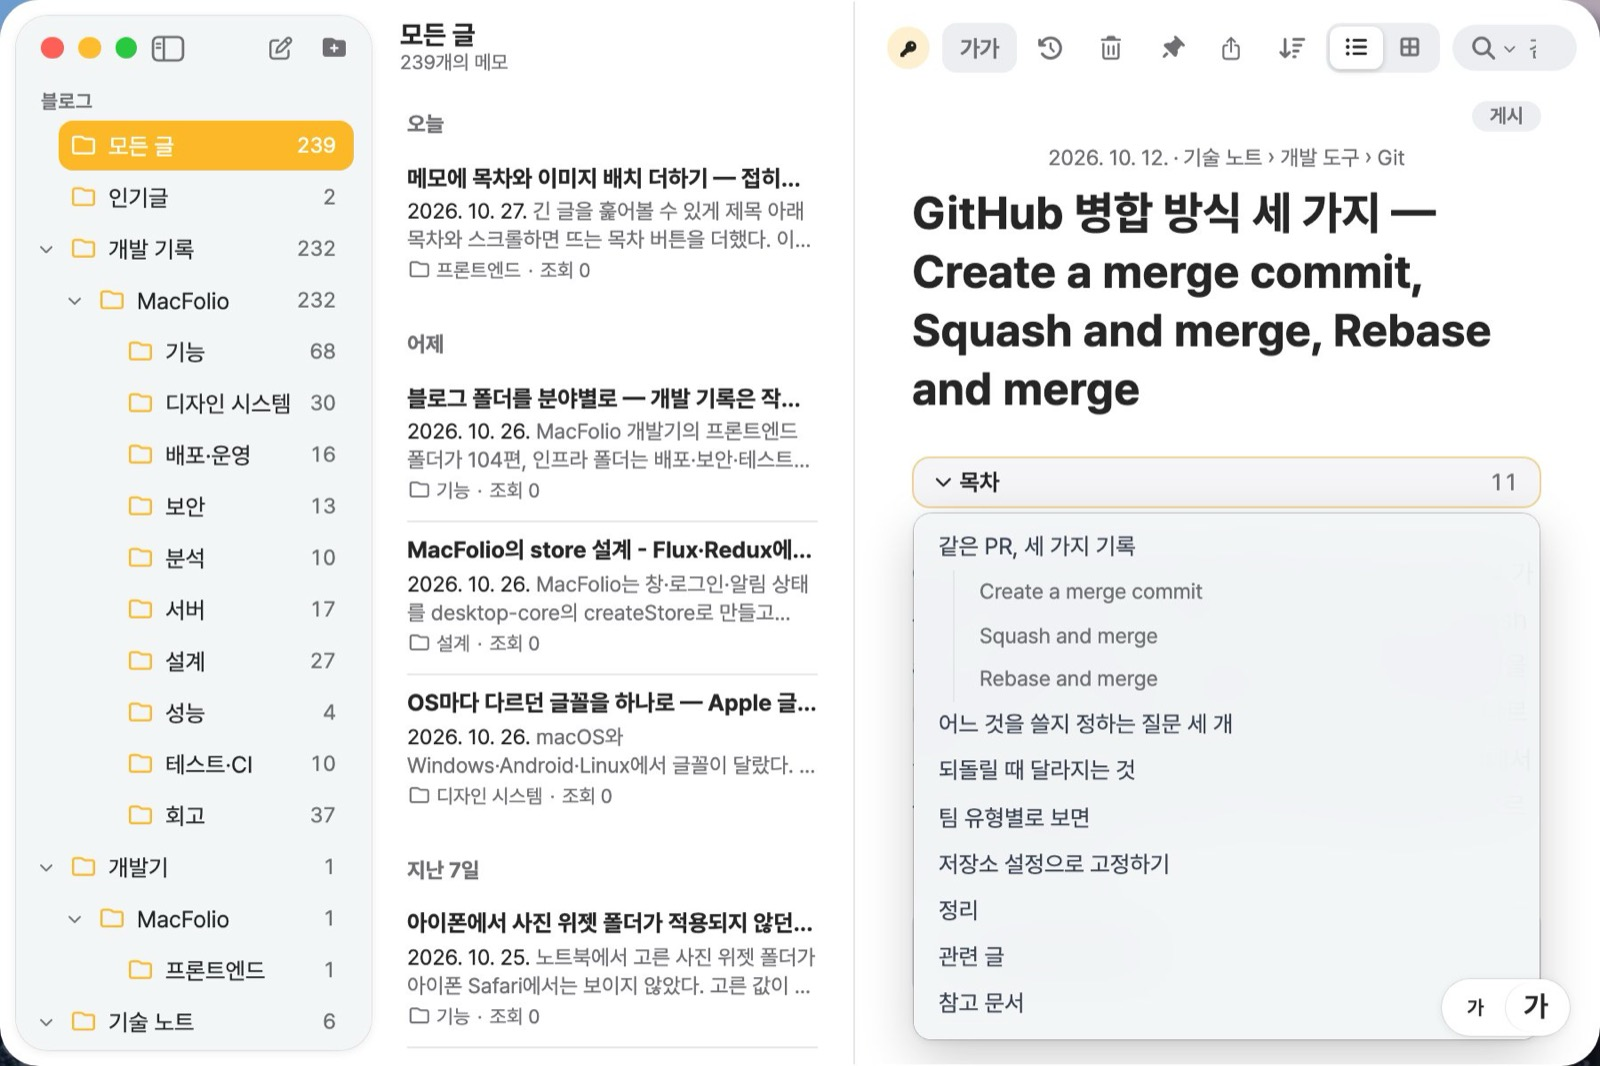
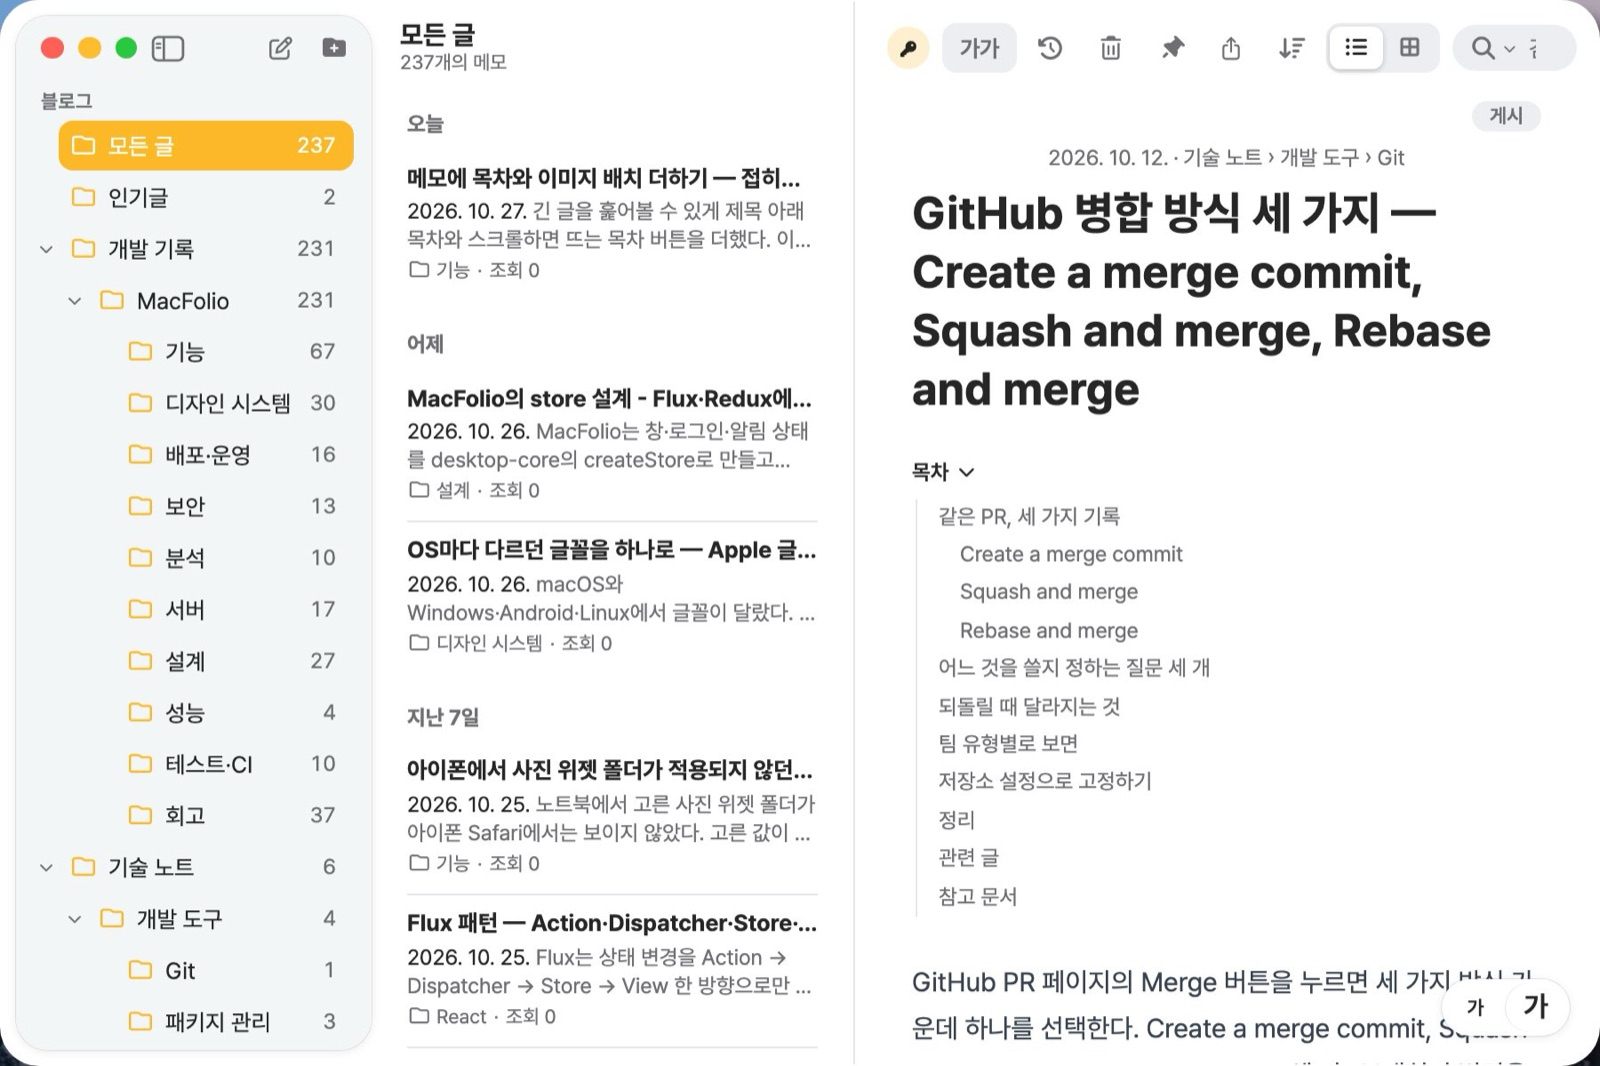
docs(memo): 목차 글을 누르기 여닫기·펼침 움직임·Apple 문서식 목록으로 고친다

diff --git a/apps/react/src/apps/memo/content/memo-toc-image-layout.md b/apps/react/src/apps/memo/content/memo-toc-image-layout.md
@@ -121,65 +121,76 @@ export function activeHeading(tops: readonly number[], offset: number): number {
 
 ## 여는 방식과 편집 화면
 
-처음 목차는 넓은 화면에서 펼친 채 시작했다. 제목이 32개인 글은 본문보다 목차가 먼저 한 화면을 차지했다. 또 관리자로 로그인해 글을 열면 편집 화면이라 목차와 글자 크기 버튼이 없었다. 두 가지를 바꿨다([#394](https://github.com/hyeoniverse/MacFolio/pull/394)).
+처음 목차는 넓은 화면에서 펼친 채 시작했다. 제목이 32개인 글은 본문보다 목차가 먼저 한 화면을 차지했다. 또 관리자로 로그인해 글을 열면 편집 화면이라 목차와 글자 크기 버튼이 없었다. 여는 방식, 모양, 편집 화면 세 가지를 바꿨다([#394](https://github.com/hyeoniverse/MacFolio/pull/394)).
 
-### 접힌 채 시작하고, 올리면 떠서 열고, 누르면 고정
+### 누르면 펼치고, 다시 누르면 접는다
 
-목차는 이제 늘 `› 목차 11`처럼 한 줄로 접혀 시작한다. 여는 방법은 둘이다.
+목차는 `목차 ›` 한 줄로 접힌 채 시작한다. 상태는 펼침과 접힘 두 가지뿐이다.
 
-| 상태      | 데스크톱                                     | 휴대폰                                     | 본문                              |
-| --------- | -------------------------------------------- | ------------------------------------------ | --------------------------------- |
-| 잠깐 열림 | 마우스를 올리면 열고, 벗어나면 닫는다        | 탭하면 열고, 바깥을 탭하거나 고르면 닫는다 | 목록이 본문 위에 떠서 밀지 않는다 |
-| 고정      | 클릭(키보드는 Enter·Space). 다시 하면 풀린다 | 길게 누르기(500ms). 탭하면 풀린다          | 판 안에 펼쳐 본문을 아래로 민다   |
+| 입력                             | 데스크톱    | 휴대폰      |
+| -------------------------------- | ----------- | ----------- |
+| 클릭·탭, 키보드 Enter·Space      | 펼침 ↔ 접힘 | 펼침 ↔ 접힘 |
+| Esc (목차 안에 초점이 있는 시각) | 접힘        | 접힘        |
+| 마우스 올림                      | 동작 없음   | 해당 없음   |
+| 떠 있는 목차 창(≡)에서 항목 고름 | 창을 닫음   | 창 없음     |
 
-![목차의 세 상태](./images/memo-toc-image-layout-toc-states.svg '도식. 접힘에서 마우스를 올리거나 탭하면 잠깐 열림, 클릭·Enter·길게 누르기면 고정. Esc는 어느 상태든 접는다')
+- **마우스 올림으로 열지 않는다:** 한 차례 마우스를 올리면 목록이 뜨는 방식을 만들었다가 뺐다. 본문을 읽으며 지나가는 마우스에도 목록이 떠서 글을 가렸고, 마우스·손가락에 따라 규칙이 달라져 휴대폰에서는 길게 누르기라는 별도 입력이 필요했다. 지금은 모든 입력에서 누르기 한 가지로 연다. 떠 있는 목차 버튼(≡)도 같다.
+- **펼침 상태는 기억한다:** 제목 아래 목차를 펼쳐 두면 `macfolio:memo:toc-open`에 남겨 다음 글과 다음 방문에도 펼친 채 연다. 접으면 키를 지운다. 휴지통 앱의 '내 브라우저 데이터'에서 지울 수 있다. 떠 있는 목차 창은 글 중간에서 잠깐 여는 메뉴라 기억하지 않는다.
+- **펼치면 본문을 민다:** 목록이 본문 위에 뜨지 않고 제목 아래에 자리를 차지한다. 열고 닫는 것은 사용자가 누른 결과라, 본문이 움직여도 읽던 자리가 예고 없이 흔들리지 않는다.
 
-- **잠깐 열린 목록은 본문을 밀지 않는다:** 마우스를 올릴 때마다 본문이 내려가면 읽던 자리가 흔들린다. 그래서 잠깐 연 목록은 `position: absolute`로 판 아래에 띄운다. 시험은 마우스를 올리기 전후의 본문 위치가 같은지 확인한다. 고정은 사용자가 고른 상태라 판 안에 펼친다.
-- **지연:** 마우스가 120ms 머물러야 열고, 벗어난 뒤 250ms가 지나야 닫는다. 목차 위를 지나가기만 한 마우스로 깜빡이지 않고, 접힌 줄에서 목록으로 내려가는 사이에 닫히지 않게 하는 값이다.
-- **마우스·손가락 구분:** `click` 이벤트에는 어떤 입력인지가 없다. 그래서 직전 `pointerdown`의 `pointerType`을 기억해 마우스면 고정을, 손가락이면 잠깐 열기를 한다. 키보드로 누른 `click`은 `detail`이 0이라 고정으로 처리한다. 길게 누르면 iOS가 띄우는 글자 고르기 메뉴는 `-webkit-touch-callout: none`과 `contextmenu` 막기로 끈다.
-- **고정은 기억한다:** 제목 아래 목차의 고정은 `macfolio:memo:toc-pinned`에 남겨 다음 글과 다음 방문에도 펼친 채 연다. 휴지통 앱의 '내 브라우저 데이터'에서 지울 수 있다. 떠 있는 목차 창의 고정은 기억하지 않는다.
+![펼친 목차](./images/memo-toc-image-layout-toc-open.jpg "데스크톱. '목차 ⌄'를 눌러 펼친 화면. 상자 없이 왼쪽 세로선에 항목이 붙고, ### 제목은 한 단계 들여 쓴다")
 
-![마우스를 올려 연 목차](./images/memo-toc-image-layout-toc-peek.jpg '데스크톱. 접힌 목차에 마우스를 올리면 목록이 반투명 판으로 본문 위에 뜬다. 판 테두리가 메모의 강조색으로 바뀐다')
+### 펼치고 접는 움직임
 
-![고정한 목차](./images/memo-toc-image-layout-toc-pinned.jpg '클릭해 고정한 목차. 판 안에 펼치고, 오른쪽에 항목 수와 핀 표시가 있다')
+펼치면 높이가 0에서 목록 높이까지 늘고, 목록이 서서히 나타나며, 화살표가 ›에서 ⌄로 돈다. 높이는 `height: auto`로 전환할 수 없어서 `display: grid`의 `grid-template-rows`를 `0fr`에서 `1fr`로 바꾼다. 행 높이 `1fr`는 내용 높이로 정해지므로 목록 높이를 스크립트로 재지 않아도 된다. 안쪽 칸은 `min-height: 0`과 `overflow: hidden`이라 줄어드는 동안 넘치는 부분이 잘린다.
 
-### macOS 사이드바·팝오버 모양
+![목차가 펼쳐지는 중간 프레임](./images/memo-toc-image-layout-toc-opening.jpg '펼치는 도중의 한 프레임. 위쪽 네 항목까지만 높이가 늘어났고 글자는 아직 옅다. 아래 본문이 함께 내려가는 중이다. 캡처용으로 전환 시간을 늘려 잡았다')
 
-| 부분            | 모양                                                                                     | 따른 것                    |
-| --------------- | ---------------------------------------------------------------------------------------- | -------------------------- |
-| 판              | 메모 사이드바 색, 둥근 모서리(`--radius-10`), 얇은 구분선                                | macOS 사이드바             |
-| 접힌 줄         | 디스클로저 화살표 ›(열면 90° 회전), 오른쪽 끝에 항목 수                                  | macOS 사이드바의 개수 표시 |
-| 떠 있는 목록·창 | 반투명 판(`--memo-panel-bg`)과 `backdrop-filter: blur(16px) saturate(180%)`, 메뉴 그림자 | macOS 팝오버·메뉴의 재질   |
-| `###` 제목      | 들여 쓰고 왼쪽에 들여쓰기 안내선, 한 단계 작은 글자                                      | macOS 개요 목록            |
-| 지금 읽는 절    | 메모 강조색을 옅게 깐 둥근 칸과 굵은 글자                                                | 메모 목록의 고른 항목      |
-| 휴대폰          | 줄 높이 44px 이상, 판 모서리 `--radius-14`                                               | iOS 목록의 최소 터치 영역  |
+![펼치기·접기 시간표](./images/memo-toc-image-layout-toc-collapse.svg '도식. 펼칠 시각에는 visibility가 바로 visible이 되고 높이·불투명도가 280ms 동안 바뀐다. 접을 시각에는 불투명도가 160ms에 먼저 0이 되고, 높이가 다 줄어든 280ms에 hidden이 된다')
 
-떠 있는 목차 버튼(≡)도 메뉴 대신 같은 목록을 담은 팝오버 창을 연다. 예전에는 공용 메뉴(`Menu`)의 체크 표시로 지금 절을 보였는데, 제목 아래 목차와 강조 방식이 달랐다. 이제 두 곳이 같은 목록 컴포넌트(`TocList`)를 쓴다. 다크 모드는 메모 앱의 색 변수(`--memo-*`)가 바뀌어 따로 규칙을 두지 않았다.
+- **시간:** 높이는 `--duration`(280ms), 화살표와 접기의 불투명도는 `--duration-fast`(160ms)다. 곡선은 `--ease-out`이다. 모두 디자인 토큰이라 다른 창 움직임과 속도가 같다.
+- **접힌 목록은 `visibility: hidden`:** 높이가 0이어도 안의 단추는 `Tab`으로 초점을 받는다. 그래서 접힌 뒤에는 `visibility: hidden`으로 감춘다. 다만 바로 감추면 줄어드는 동안 목록이 보이지 않으므로, `visibility` 전환에 `--duration`만큼 지연을 줘 높이가 다 줄어든 시각에 감춘다. 펼치기에서는 지연 없이 바로 보인다.
+- **움직임 줄이기:** `prefers-reduced-motion: reduce`에서는 높이·불투명도·화살표 전환을 모두 끈다. 펼침과 접힘이 바로 바뀐다. 휴대폰 탭도 같은 CSS를 쓰므로 움직임이 같다.
 
-![다크 모드의 목차 창](./images/memo-toc-image-layout-toc-panel-dark.jpg '다크 모드. 스크롤한 뒤 오른쪽 위 목차 버튼에 마우스를 올려 연 목차 창. 지금 읽는 절이 옅은 강조색 칸으로 표시된다')
+### Apple 문서식 목록
 
-![휴대폰에서 탭해 연 목차](./images/memo-toc-image-layout-toc-phone-open.jpg '휴대폰(390px). 탭하면 목록이 본문 위에 뜨고, 줄이 손가락으로 고르기 쉬운 높이다. 길게 누르면 고정된다')
+처음에는 macOS 사이드바처럼 판·테두리·항목 수·핀 표시를 둔 상자로 그렸다. 본문 바로 위에 놓이는 목록치고 장식이 많아, Apple 개발자 문서의 'On This Page' 목록처럼 상자 없는 글자 목록으로 바꿨다.
+
+| 부분         | 모양                                                                              |
+| ------------ | --------------------------------------------------------------------------------- |
+| '목차' 제목  | 작은 회색 굵은 글자(`--text-caption`, `--memo-muted`)와 ⌄ 화살표                  |
+| 목록         | 상자·배경 없음. 왼쪽에 1px 세로선(`--memo-border`) 하나                           |
+| 항목         | 작은 보조 글자색. `###` 제목은 한 단계 들여 쓴다. 마우스를 올리면 글자만 진해진다 |
+| 지금 읽는 절 | 강조색(`--memo-accent`) 굵은 글자와, 세로선 위에 겹친 3px 강조색 막대             |
+| 떠 있는 창   | 같은 목록에 바탕만 메뉴 재질(반투명 판과 `backdrop-filter`, 메뉴 그림자)          |
+| 휴대폰       | 같은 모양에 줄 간격만 넓힌다(손가락으로 고르기 쉽게)                              |
+
+색은 모두 메모 앱 변수(`--memo-*`)라 다크 모드에서 따로 규칙을 두지 않았다. 떠 있는 목차 창과 제목 아래 목차는 같은 목록 컴포넌트(`TocList`)를 써서 지금 읽는 절 표시가 같다.
+
+![다크 모드의 목차 창](./images/memo-toc-image-layout-toc-panel-dark.jpg '다크 모드. 스크롤한 뒤 오른쪽 위 목차 버튼을 눌러 연 창. 지금 읽는 절(Rebase and merge)이 강조색 글자와 왼쪽 막대로 표시된다')
+
+![휴대폰에서 펼친 목차](./images/memo-toc-image-layout-toc-phone-open.jpg '휴대폰(390px). 탭해 펼친 목차. 데스크톱과 같은 목록에 줄 간격만 넓다')
 
 ### 편집 화면의 목차와 글자 크기
 
-#391에서 편집 화면에 목차를 두지 않은 이유는 본문 폭이었다. 편집·읽기 화면이 블록을 같은 자리에 놓는지 확인하는 시험이 있어, 목차가 본문 옆 칸을 차지하면 줄바꿈이 달라진다. 목차를 본문 위 한 줄로 두고 열린 목록을 띄우는 지금 방식은 본문 폭을 바꾸지 않으므로, 편집 화면에도 같은 자리(제목 아래)에 둘 수 있다. 그 시험은 본문 맨 위에서의 거리를 비교하므로 본문 위에 목차 줄이 있어도 그대로 통과한다.
+#391에서 편집 화면에 목차를 두지 않은 이유는 본문 폭이었다. 편집·읽기 화면이 블록을 같은 자리에 놓는지 확인하는 시험이 있어, 목차가 본문 옆 칸을 차지하면 줄바꿈이 달라진다. 목차를 본문 위에 두는 지금 방식은 본문 폭을 바꾸지 않으므로, 편집 화면에도 같은 자리(제목 아래)에 둘 수 있다. 그 시험은 본문 맨 위에서의 거리를 비교하므로 본문 위에 목차가 있어도 그대로 통과한다.
 
 - **제목 읽기:** 편집 화면은 `.ProseMirror`의 맨 위 단계 제목을 읽는다. 편집기는 늦게 불러오고 입력할 때마다 제목이 바뀌므로, 편집기를 감싼 칸의 DOM 변화를 `MutationObserver`로 지켜보고 다시 읽는다. 제목을 새로 쓰면 목차에 바로 나온다.
 - **이동:** 읽기 화면은 제목에 초점을 옮기지만, 편집기 안의 제목에 `tabindex`를 붙이면 편집기 문서가 바뀐다. 그래서 편집 화면에서는 제목으로 스크롤한 뒤 편집기에 초점을 주고 제목 맨 앞에 커서를 둔다.
 - **글자 크기:** 읽기 화면은 판 전체에 CSS `zoom`을 준다. 편집 화면에서 같은 방식을 쓰면 표 손잡이·서식 막대처럼 화면 좌표로 자리를 잡는 편집 도구가 배율만큼 한 번 더 밀린다. 그래서 날짜 줄·제목·목차·`.ProseMirror`에만 `zoom`을 준다. 시험은 115%로 키운 편집기에서 첫 줄 왼쪽을 눌러 쓴 글자가 첫 단어 안에 들어가는지 확인한다.
 
-![편집 화면의 목차](./images/memo-toc-image-layout-toc-editor.jpg '관리자 편집 화면. 제목 아래에 같은 목차가 있고 오른쪽 아래에 글자 크기 버튼이 있다')
+![편집 화면의 목차](./images/memo-toc-image-layout-toc-editor.jpg '관리자 편집 화면. 제목 아래에 읽기 화면과 같은 목차가 있고 오른쪽 아래에 글자 크기 버튼이 있다')
 
 ## 시험
 
-| 시험                                               | 확인하는 것                                                                                                                                                                                                                                                                                                     |
-| -------------------------------------------------- | --------------------------------------------------------------------------------------------------------------------------------------------------------------------------------------------------------------------------------------------------------------------------------------------------------------- |
-| `imageLayout.test.ts` (단위)                       | 표기 읽기·쓰기, 가운데면 지우기, 배치가 아닌 # 조각 보존, 주소를 바꿀 때 표기 떼기                                                                                                                                                                                                                              |
-| `toc.test.ts` (단위)                               | 제목 3개 기준, 지금 읽는 절 고르기                                                                                                                                                                                                                                                                              |
-| `writer.test.ts` (단위)                            | 편집기 주소 변환에서 # 조각이 남는다                                                                                                                                                                                                                                                                            |
-| `memo-toc-image-layout.spec.ts` (E2E, 데스크톱)    | 목차 항목 = 본문 제목, 누르면 제목이 화면에 들어오고 초점을 받으며 주소는 그대로, 떠 있는 버튼 메뉴의 체크 = 지금 절, 제목 둘인 글은 목차 없음, 정렬 위치, 띄운 이미지 폭(본문의 40%)과 다음 문단 첫 줄 위치, 다음 제목이 이미지 아래, 편집기 버튼으로 바꾼 표기가 저장된 Markdown에 남음                       |
-| `mobile-memo-toc.spec.ts` (E2E, 아이폰·안드로이드) | 목차가 접힌 채 시작, 펼쳐 누르면 이동, 떠 있는 버튼 없음, 띄운 이미지가 본문 폭                                                                                                                                                                                                                                 |
-| 10월 27일 추가 (E2E)                               | 데스크톱: 마우스를 올리면 열리고 본문 위치는 그대로, 벗어나면 닫힘, 클릭 고정과 다음 방문에도 유지, Enter·Esc, 떠 있는 목차 창의 올림·고정·Esc. 편집 화면: 목차 = 편집기 제목, 누르면 제목 맨 앞 커서, 새 제목 반영, 키운 글자에서 누른 자리에 입력. 휴대폰: 탭 열기·바깥 탭 닫기·고르면 닫기, 길게 누르면 고정 |
+| 시험                                               | 확인하는 것                                                                                                                                                                                                                                                                                                                                                                                        |
+| -------------------------------------------------- | -------------------------------------------------------------------------------------------------------------------------------------------------------------------------------------------------------------------------------------------------------------------------------------------------------------------------------------------------------------------------------------------------- |
+| `imageLayout.test.ts` (단위)                       | 표기 읽기·쓰기, 가운데면 지우기, 배치가 아닌 # 조각 보존, 주소를 바꿀 때 표기 떼기                                                                                                                                                                                                                                                                                                                 |
+| `toc.test.ts` (단위)                               | 제목 3개 기준, 지금 읽는 절 고르기                                                                                                                                                                                                                                                                                                                                                                 |
+| `writer.test.ts` (단위)                            | 편집기 주소 변환에서 # 조각이 남는다                                                                                                                                                                                                                                                                                                                                                               |
+| `memo-toc-image-layout.spec.ts` (E2E, 데스크톱)    | 목차 항목 = 본문 제목, 누르면 제목이 화면에 들어오고 초점을 받으며 주소는 그대로, 떠 있는 버튼 메뉴의 체크 = 지금 절, 제목 둘인 글은 목차 없음, 정렬 위치, 띄운 이미지 폭(본문의 40%)과 다음 문단 첫 줄 위치, 다음 제목이 이미지 아래, 편집기 버튼으로 바꾼 표기가 저장된 Markdown에 남음                                                                                                          |
+| `mobile-memo-toc.spec.ts` (E2E, 아이폰·안드로이드) | 목차가 접힌 채 시작, 펼쳐 누르면 이동, 떠 있는 버튼 없음, 띄운 이미지가 본문 폭                                                                                                                                                                                                                                                                                                                    |
+| 10월 27일 추가 (E2E)                               | 데스크톱: 접힌 채 시작, 마우스를 올려도 열리지 않음, 클릭으로 펼치고 접기, 다음 방문에도 펼침 유지, Enter·Esc, 떠 있는 목차 창도 클릭으로만 열고 Esc·항목 고름으로 닫기. 움직임: 높이가 0에서 시작해 중간 높이를 거쳐 늘고, 접으면 0과 hidden. 편집 화면: 목차 = 편집기 제목, 누르면 제목 맨 앞 커서, 새 제목 반영, 키운 글자에서 누른 자리에 입력. 휴대폰: 탭으로 펼치고 접기, 항목을 누르면 이동 |
 
 띄운 이미지 옆으로 문단이 흐르는지는 다음 문단의 첫 줄 위치로 확인한다. `Range.getClientRects()`의 첫 사각형이 줄 하나라, 그 왼쪽 끝이 이미지의 오른쪽 끝보다 오른쪽에 있으면 옆으로 흐른 것이다.
 
